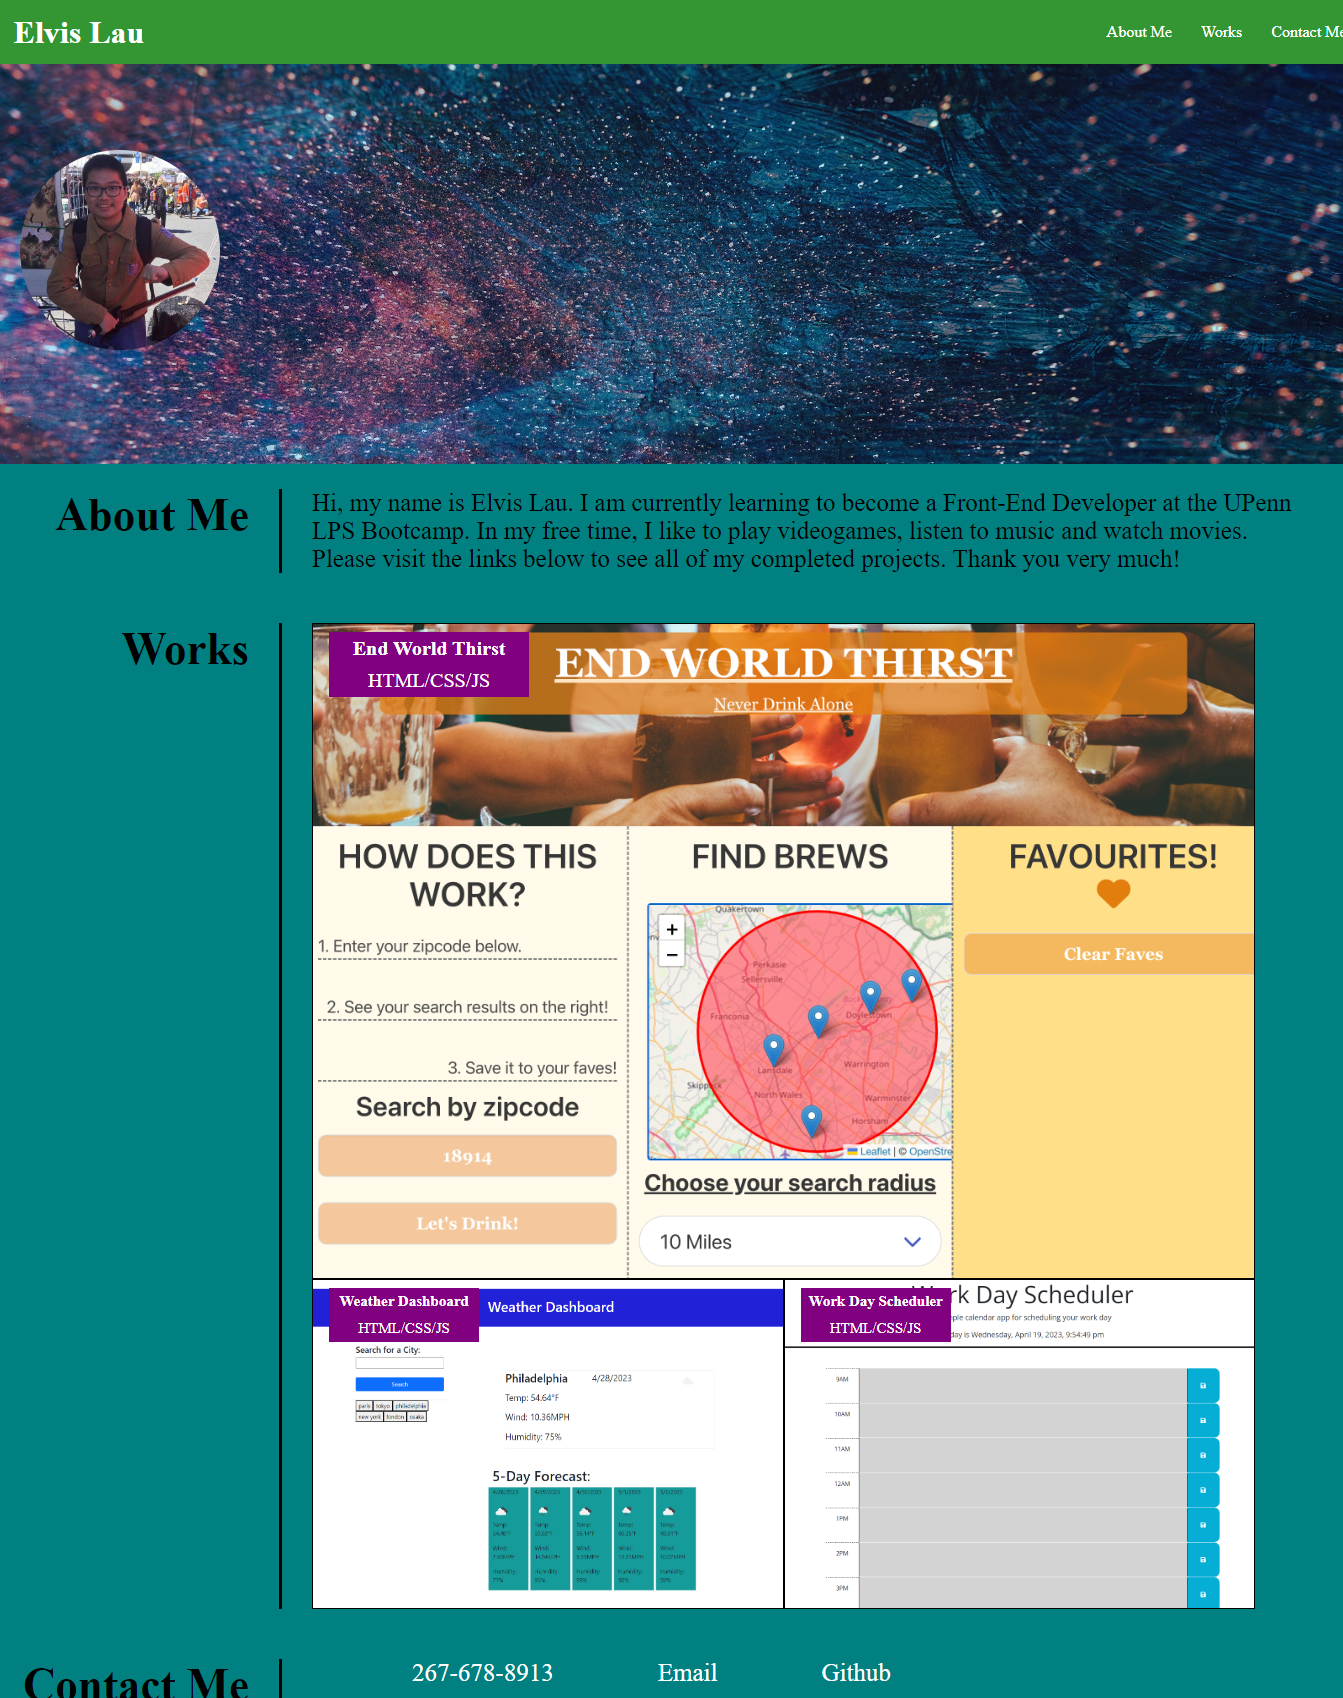
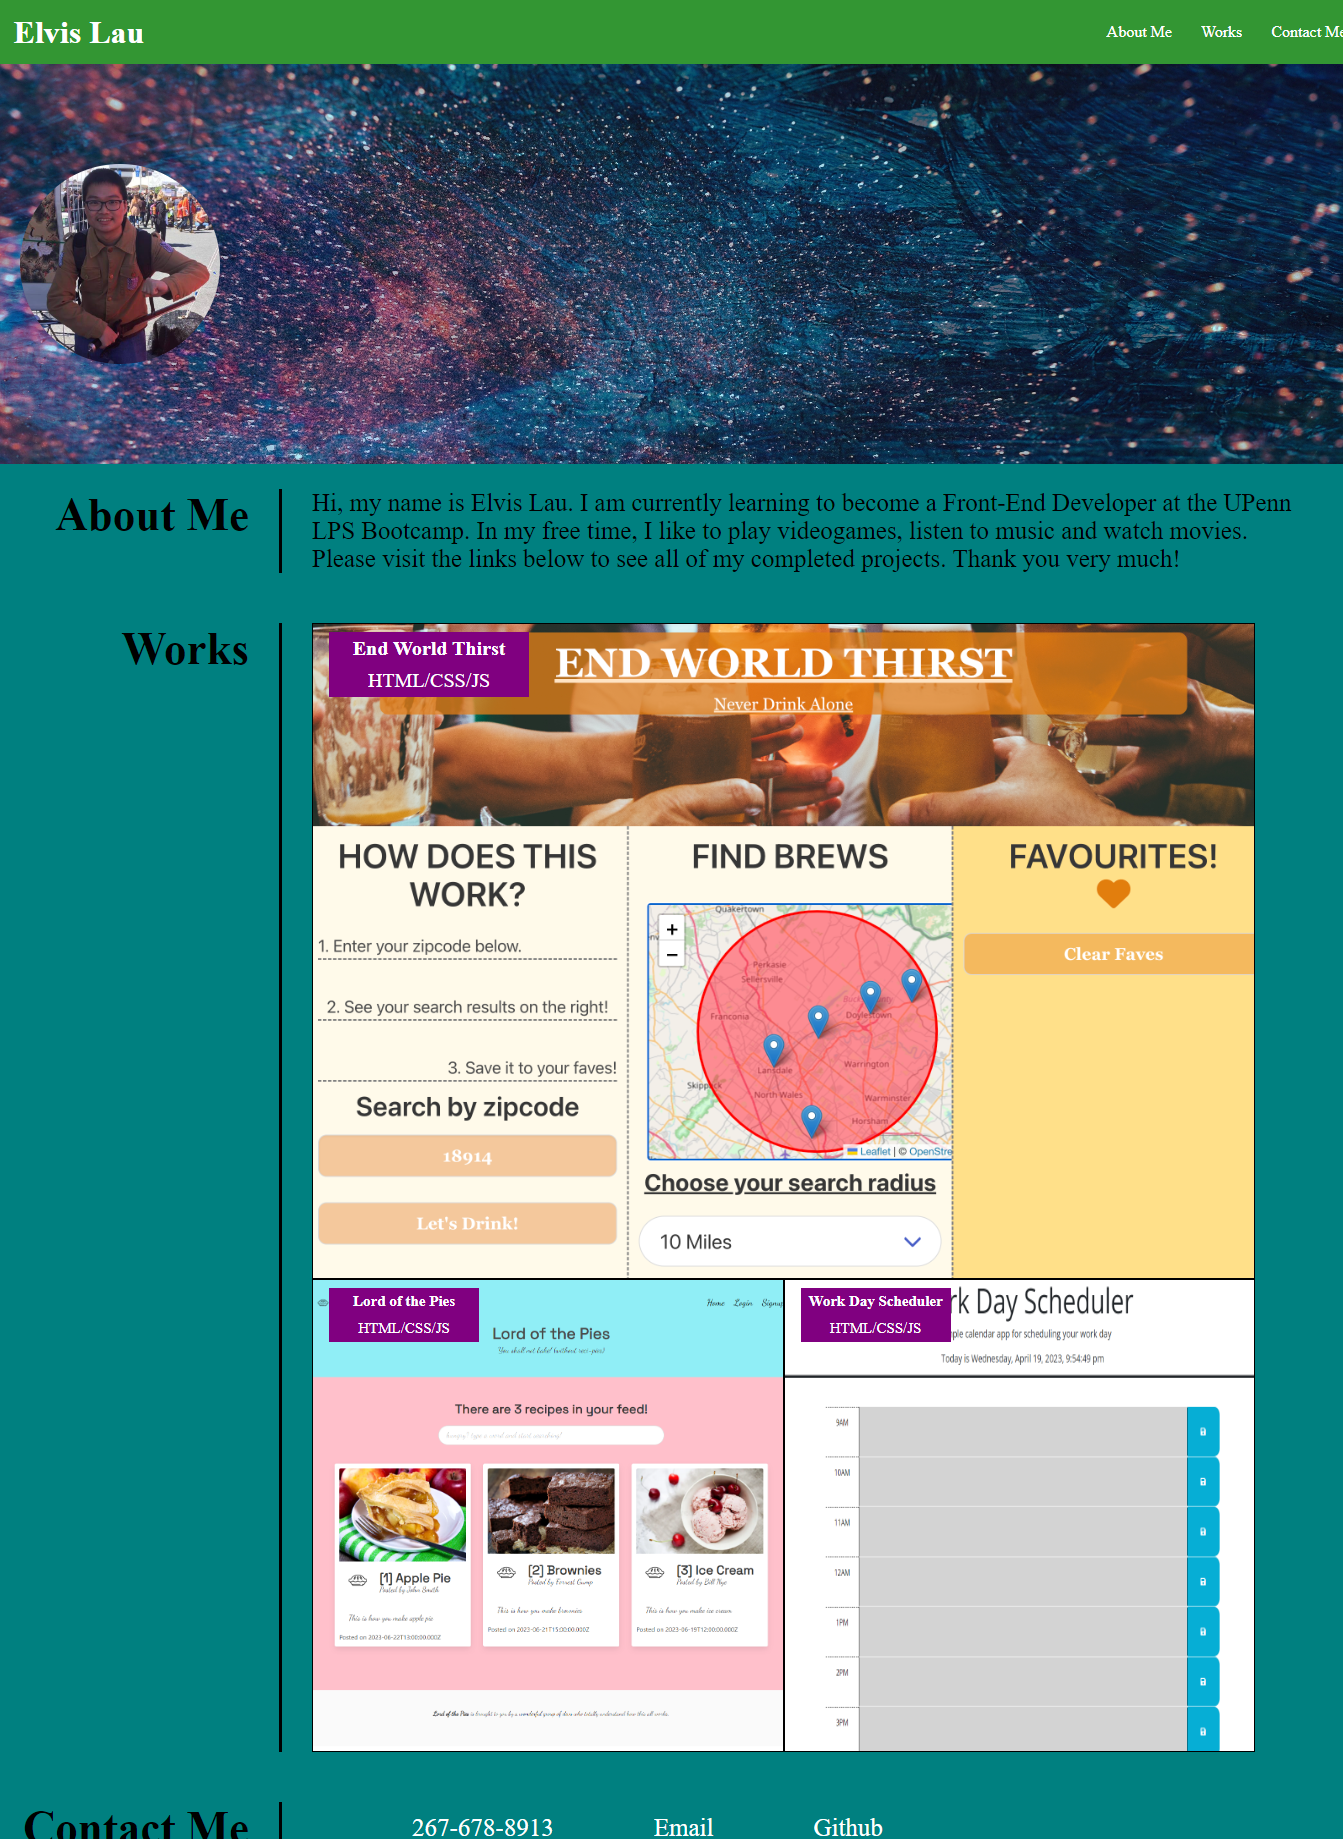
add group project 2 to my list of works

diff --git a/index.html b/index.html
@@ -56,16 +56,16 @@
                         <h3>End World Thirst</h3>
                         <p>HTML/CSS/JS</p>
                         <img src="./assets/images/end-world-thirst-website.png" alt="image of 
-                        first project called end world thirst"/>
+                        first group project called end world thirst"/>
                     </a>
                 </article>
 
                 <article class="projects second-assignment">
                 <a href="https://elvislau74.github.io/weather-dashboard/">
-                    <h3>Weather Dashboard</h3>
+                    <h3>Lord of the Pies</h3>
                     <p>HTML/CSS/JS</p>
-                    <img src="./assets/images/weather-dashboard-livesite.png" alt="image of 
-                    weather dashboard project"/>
+                    <img src="./assets/images/lord-of-the-pies-website.png" alt="image of 
+                    second group project called lord of the pies"/>
                 </a>
                 </article>
 
